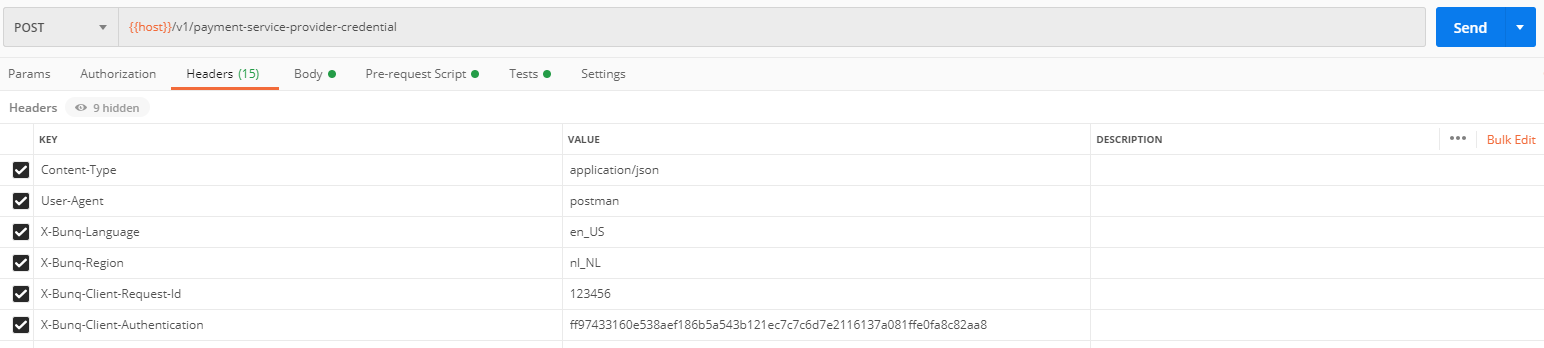
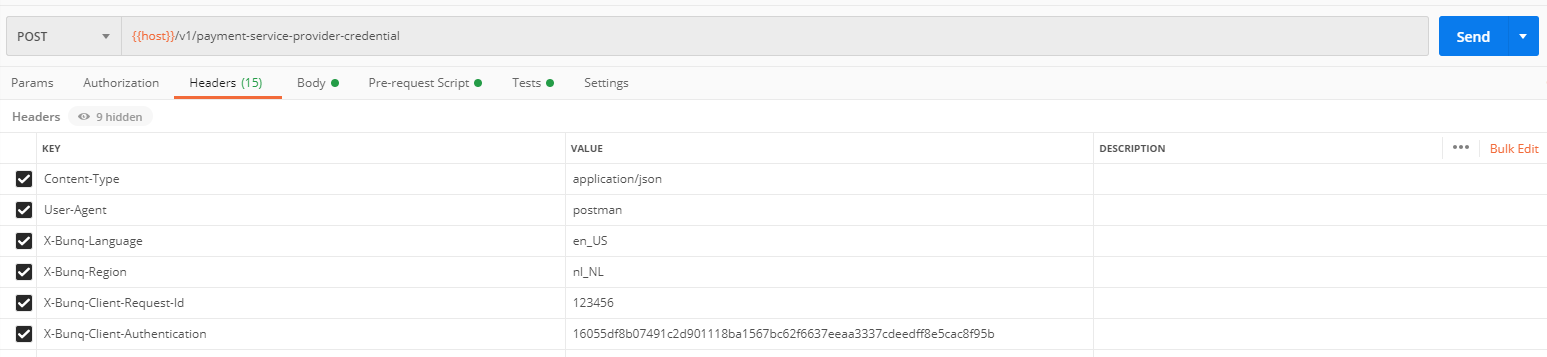
Add more info

diff --git a/README.md b/README.md
@@ -1,45 +1,70 @@
-# bunq PSD2 example, get PSP credential
+bunq PSD2 example, get PSP credential via public API  
+====
 
-**Tested in the Sandbox environment.**
+**Only for the API Sandbox environment.  
+Use real eIDAS certificate in production**
 
-PSD2 private key: See contents of **key.pem**  
-PSD2 public certificate: See contents of **cert.cert**  
-PSD2 public certificate chain: See contents of **cert.cert**  
+Create a pseudo PSD2 certificate for the Sandbox:
+```openssl req -x509 -newkey rsa:4096 -keyout psd2_key.pem -out psd2_cert.pem -days 365 -nodes -subj '/CN=My App PISP AISP/C=NL'```
 
-Client public key: See contents of **client_pub_key.pem**  
-Client private key: See contents of **client_key.pem**  
+PSD2 private key: See contents of **psd2_key.pem**  
+PSD2 public certificate: See contents of **psd2_cert.pem**  
+PSD2 public certificate chain: See contents of **psd2_cert.pem**  
+
+Create a client **private key** (2048 bits RSA) for the communication with the API:  
+```openssl genrsa -out client_private_key.pem 2048```  
+See contents of **client_private_key.pem**  
+
+Create a client **public key**, based on the private key: 
+```openssl rsa -in client_private_key.pem -outform PEM -pubout -out client_public_key.pem```  
+See contents of **client_public_key.pem** 
  
-Installation token (obtained via ```/v1/installation``` endpoint):  
[1 lines of base64/hex data omitted]
+Send a POST request with the **client public key** to the ```/v1/installation``` endpoint to get an Installation Token.  
+Body JSON of the request, this contains the contents **client_public_key.pem** (replace newlines by \n):
+```{"client_public_key":"-----BEGIN PUBLIC KEY-----\nMIIBIjANBgkqhkiG9w0BAQEFAAOCAQ8AMIIBCgKCAQEAsgDXw1qErJ5AVrah9mK3\nFR1TRcW8jN+vx2V2UDoEks+o76ZNaZOJTbKhtxLGTJ4rpxl1z022MczqQgMF6aSi\nita9uJKnw+cxkYeCW5/zUZkmsJr+5gdmyYoNdZTxrBSpOjlaCkKgLEXp9F77IJhX\n+72aGMo/lu/MwOCtCBbn1m1f1JVXY9yO60oJO5T7H1rhZxcXjJ2aU1246VDfbBMa\nulgwLe91crO/36yPvlm6W0VvDBKgPDvoFNKeaW0kbhaFr6NITWYkysjpq5wJMhYR\nT0AgkZbjoRSD3ABQ2xbewpjD7kG/bsN0liGJSdOHiRQ3Ru+ndxDjbO2/PoMHaQjZ\njQIDAQAB\n-----END PUBLIC KEY-----\n"}```
 
-String to sign (client public key + installation token). **StringToSign.txt**:  
+Received installation token:
[1 lines of base64/hex data omitted]
+
+### Create signature for payment-service-provider-credential
+You need to create a signature for the JSON data, to send to the ```/v1/payment-service-provider-credential``` endpoint.
+
+String to sign (**client public key** and Installation token combined). Contents of file **StringToSign.txt**:  
 ```
 -----BEGIN PUBLIC KEY-----
[6 lines of base64/hex data omitted]
-CwIDAQAB
[6 lines of base64/hex data omitted]
+jQIDAQAB
 -----END PUBLIC KEY-----
[2 lines of base64/hex data omitted]
 ```
 
-Create signature:  
-```openssl dgst -sha256 -sign key.pem -out JsonBodySignature.txt StringToSign.txt```  
-```openssl enc -base64 -in JsonBodySignature.txt -out JsonBodySignatureEncoded.txt```
+Create signature for **StringToSign.txt** contents, signed with the private PSD2 key:  
+```openssl dgst -sha256 -sign psd2_key.pem -out JsonBodySignature.txt StringToSign.txt```  
+Encode signature as Base64: 
+```openssl enc -base64 -in JsonBodySignature.txt -out JsonBodySignatureEncoded.txt -A```
 
-Signature:  
+Base64 encoded signature inside **JsonBodySignatureEncoded.txt**:  
 ```
[2 lines of base64/hex data omitted]
 ```
 
-HTTP request data to sign (Create value for **X-Bunq-Client-Signature** header): See contents of **HttpRequest.txt**
+### Send PSD2 certificate and signature to payment-service-provider-credential
+The JSON data to send to the endpoint ```/v1/payment-service-provider-credential```:
+```json
+{
+	"client_payment_service_provider_certificate": "-----BEGIN CERTIFICATE-----\nMIIFIzCCAwugAwIBAgIJAKT0fvWrqcsNMA0GCSqGSIb3DQEBCwUAMCgxGTAXBgNV\nBAMMEE15IEFwcCBQSVNQIEFJU1AxCzAJBgNVBAYTAk5MMB4XDTIwMDUxOTExNTYy\nNFoXDTIxMDUxOTExNTYyNFowKDEZMBcGA1UEAwwQTXkgQXBwIFBJU1AgQUlTUDEL\nMAkGA1UEBhMCTkwwggIiMA0GCSqGSIb3DQEBAQUAA4ICDwAwggIKAoICAQCgryG8\nIACUzS/uoARtNPasWCAPDetE2OLd1bi/nDkxBXBJqQh0S76GZKnl4FxnXYwR1kY7\n0qWn9GhNyjQL6Td2D18EBLzojp5BTjWbXfuMu4M3WreGqKxONbuW/r7lTFUCPn7h\nVBHMEEeaGStWVh36lhJ46CTho04/xhRjUS0xtl8k0rTUkz74h1grpv0oRaDGxH4a\nFVrkUlhPtRGNSC6q6iEWq+EhLw047fcNi4iRR5cUluwwplAKQ5wuNq1Ru8A6JSkW\neWnZm+KStYaczB1Hx2hW7NaMEVAr857+mSSAQ+LAJIFc8njZLG7arhHso1n7Oux8\nzTfRjdWC1yWYQR9nA2qBtGh308VjreIYtiJFUi/pm7cJ3uyYhsW9cVdZd3RE3eXw\nGSW6faTH2QCYh/4TF5IgI1Ap1/L4+zQt2zNGxe7nrd4xp271vXjx6mY6kGL1sacA\nFxhLyw323qm7Uln99AsjG18v9irr9ZrWKw0s7TG/0WPk38zfIfjtPrGUuekAeURh\nQUPsA7RzIprSbp5wHxAjKxvVutJWsvnJdGa+NM7yccQfd6yq0BmHDLNbq31E32Zd\n/OfN7Io5cKpP7gBbwNNIkjARMDUc/qMaaT8A44f/79I1VQDjw2AzwVNHQ9eK03FV\nBvAi9PXz0AOhX0RMYGJl4GOkayiqO3Zt1YbA6QIDAQABo1AwTjAdBgNVHQ4EFgQU\nthox26m3n7NrYC6U6sbqi4eIAy4wHwYDVR0jBBgwFoAUthox26m3n7NrYC6U6sbq\ni4eIAy4wDAYDVR0TBAUwAwEB/zANBgkqhkiG9w0BAQsFAAOCAgEAcG4qKBJGmQCH\niMjXWylvM+fvFC9vko/nlY/B321yHlkeeZqQJ5Tgk3e+Ez/vmbsvE8N0V3N+i+j2\n1bb4tzwukAVPgXD9t/W9hVIxYy4hWf+HKoCPkAXu6FqqtJhYRhrhRNC/W9QTHWi+\ntXDuheU1xNNGFS8nKrzAskKxUUgolBkw53X2g/c06K0WdliKUe0yOCPy+3iRkLXS\n7ic+TPcXFBa8EW5yUsiaBcu8+cjuOK3kFtixJa2ogeEygF4dD+SxUa47b2iOWR2R\n7LmPWal4DkMOF7JKJaRmLdIVhbUqliutEqjc9aztPqsnZ0pagRJ3R6oLY3W9c97O\nq1gi7cQmTZlqpTGAyUq8itgkJgvJC+LK3gNwBtcreecrK9SZI9ZU5n0B/Flnq7Uj\naJn5W5/hCiaiuI7+GfuuwvtcxAD9JljF+Wb45TJpPHIM/RCA+Fmaiq7sW6qk4vNQ\nmeBP9JDR9TNRd+g+zIe94MeJXoI7QGC4H5s9hbC10xXoHOI8FSdwEwvlim1OLyXr\ne+hF0/NlwEAfpV1LpEqiZWEARZlEa+pMGwzR4VFVB6snIo17x/u+mgx+U/esZ9tL\nPFko7V15BudbskW+VYKDdiKACCtwhvnzTDnWGXLAmtF5ThTRavHYvlnCT5zZoa5t\nlL6SwVaoW+Jk7Oem8KzMqjd0gqzK77g=\n-----END CERTIFICATE-----\n",
+	"client_payment_service_provider_certificate_chain": "-----BEGIN CERTIFICATE-----\nMIIFIzCCAwugAwIBAgIJAKT0fvWrqcsNMA0GCSqGSIb3DQEBCwUAMCgxGTAXBgNV\nBAMMEE15IEFwcCBQSVNQIEFJU1AxCzAJBgNVBAYTAk5MMB4XDTIwMDUxOTExNTYy\nNFoXDTIxMDUxOTExNTYyNFowKDEZMBcGA1UEAwwQTXkgQXBwIFBJU1AgQUlTUDEL\nMAkGA1UEBhMCTkwwggIiMA0GCSqGSIb3DQEBAQUAA4ICDwAwggIKAoICAQCgryG8\nIACUzS/uoARtNPasWCAPDetE2OLd1bi/nDkxBXBJqQh0S76GZKnl4FxnXYwR1kY7\n0qWn9GhNyjQL6Td2D18EBLzojp5BTjWbXfuMu4M3WreGqKxONbuW/r7lTFUCPn7h\nVBHMEEeaGStWVh36lhJ46CTho04/xhRjUS0xtl8k0rTUkz74h1grpv0oRaDGxH4a\nFVrkUlhPtRGNSC6q6iEWq+EhLw047fcNi4iRR5cUluwwplAKQ5wuNq1Ru8A6JSkW\neWnZm+KStYaczB1Hx2hW7NaMEVAr857+mSSAQ+LAJIFc8njZLG7arhHso1n7Oux8\nzTfRjdWC1yWYQR9nA2qBtGh308VjreIYtiJFUi/pm7cJ3uyYhsW9cVdZd3RE3eXw\nGSW6faTH2QCYh/4TF5IgI1Ap1/L4+zQt2zNGxe7nrd4xp271vXjx6mY6kGL1sacA\nFxhLyw323qm7Uln99AsjG18v9irr9ZrWKw0s7TG/0WPk38zfIfjtPrGUuekAeURh\nQUPsA7RzIprSbp5wHxAjKxvVutJWsvnJdGa+NM7yccQfd6yq0BmHDLNbq31E32Zd\n/OfN7Io5cKpP7gBbwNNIkjARMDUc/qMaaT8A44f/79I1VQDjw2AzwVNHQ9eK03FV\nBvAi9PXz0AOhX0RMYGJl4GOkayiqO3Zt1YbA6QIDAQABo1AwTjAdBgNVHQ4EFgQU\nthox26m3n7NrYC6U6sbqi4eIAy4wHwYDVR0jBBgwFoAUthox26m3n7NrYC6U6sbq\ni4eIAy4wDAYDVR0TBAUwAwEB/zANBgkqhkiG9w0BAQsFAAOCAgEAcG4qKBJGmQCH\niMjXWylvM+fvFC9vko/nlY/B321yHlkeeZqQJ5Tgk3e+Ez/vmbsvE8N0V3N+i+j2\n1bb4tzwukAVPgXD9t/W9hVIxYy4hWf+HKoCPkAXu6FqqtJhYRhrhRNC/W9QTHWi+\ntXDuheU1xNNGFS8nKrzAskKxUUgolBkw53X2g/c06K0WdliKUe0yOCPy+3iRkLXS\n7ic+TPcXFBa8EW5yUsiaBcu8+cjuOK3kFtixJa2ogeEygF4dD+SxUa47b2iOWR2R\n7LmPWal4DkMOF7JKJaRmLdIVhbUqliutEqjc9aztPqsnZ0pagRJ3R6oLY3W9c97O\nq1gi7cQmTZlqpTGAyUq8itgkJgvJC+LK3gNwBtcreecrK9SZI9ZU5n0B/Flnq7Uj\naJn5W5/hCiaiuI7+GfuuwvtcxAD9JljF+Wb45TJpPHIM/RCA+Fmaiq7sW6qk4vNQ\nmeBP9JDR9TNRd+g+zIe94MeJXoI7QGC4H5s9hbC10xXoHOI8FSdwEwvlim1OLyXr\ne+hF0/NlwEAfpV1LpEqiZWEARZlEa+pMGwzR4VFVB6snIo17x/u+mgx+U/esZ9tL\nPFko7V15BudbskW+VYKDdiKACCtwhvnzTDnWGXLAmtF5ThTRavHYvlnCT5zZoa5t\nlL6SwVaoW+Jk7Oem8KzMqjd0gqzK77g=\n-----END CERTIFICATE-----\n",
[1 lines of base64/hex data omitted]
+}
+```
+This JSON data contains the content of **psd2_cert.pem** (geplace newlines by \n) and the content of **JsonBodySignatureEncoded.txt** (Base64 encoded signature)
 
-Create signature (X-Bunq-Client-Signature header value):  
-```openssl dgst -sha256 -sign client_key.pem -out HeaderSignature.txt HttpRequest.txt```  
-```openssl enc -base64 -in HeaderSignature.txt -out HeaderSignatureEncoded.txt```  
+Use the Installation token as header value for ```X-Bunq-Client-Authentication```
 
-## Postman screenshot
+### Postman screenshot
 ![screenshot](https://github.com/basst85/bunq_psd2_example/raw/master/image.png)
